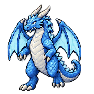
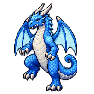
Rework dragon walking poses with raised knees and alternating foot landings

diff --git a/design/enemies/dragon_frost/PROMPT.md b/design/enemies/dragon_frost/PROMPT.md
@@ -1,1 +1,4 @@
-Edit target Image1: exact blue frost dragon sprite, 94x94 logical pixels. Make ONE transparent sprite-sheet asset with exactly SEVEN walking frames in one horizontal row of seven equally spaced cells. Keep original dragon identity, upright TWO-LEGGED stance, two arms, ivory horns, TWO protruding ivory fangs, blue scales, white belly, cyan bat wings, curling tail, same three-quarter view. Crisp pixel art, no redesign. IMPORTANT: the previous attempt only moved ONE leg. This version MUST show BOTH LEGS alternately lifting, swinging and planting. Screen LEFT leg and screen RIGHT leg each have their own visible lifted-foot poses. Define these by image side, NOT anatomical labels. Both feet stay visibly separated and never overlap. Upper body, head, wings and scale MUST stay identical and fixed in position in all 7 cells; animate the two legs below hip joints and very slight arm swing only. Stationary walk in place, NO lateral movement or flipping. Clear positive toe clearance, lifted foot about5 logical pixels above floor, planted supporting foot on consistent baseline. Seven phases, all required: CELL1 screen-left foot forward planted, screen-right foot back with heel starting to lift. CELL2 SCREEN-RIGHT knee bent, SCREEN-RIGHT FOOT LIFTED OFF FLOOR underneath body, screen-left foot still firmly planted. CELL3 SCREEN-RIGHT FOOT SWINGING FORWARD ABOVE FLOOR, screen-left leg straight supporting body. CELL4 SCREEN-RIGHT FOOT FORWARD PLANTED ON FLOOR, screen-left foot back with heel rising. CELL5 SCREEN-LEFT knee bent, SCREEN-LEFT FOOT LIFTED OFF FLOOR underneath body, screen-right foot still firmly planted. CELL6 SCREEN-LEFT FOOT SWINGING FORWARD ABOVE FLOOR, screen-right leg straight supporting body. CELL7 SCREEN-LEFT foot descending toward forward contact, screen-right heel lifting for next cycle. Then seamlessly return to cell1. In particular cell2 and cell3 have RIGHT FOOT lifted, while cell5 and cell6 have LEFT FOOT lifted. Do NOT produce the same leg lifting in both halves of the cycle. Clearly readable different poses, natural hip-knee-ankle bends, no stretch artifacts. All seven dragons same size, same vertical head position, same centerline, fully visible wing tips horns feet tail within own equally sized cell with transparent separation/padding. No duplicated endpoint, no missing frames, no extra dragons. Reference logical sheet658x94, can render enlarged. NO TEXT, NO labels, NO lines, NO backgrounds, NO floor shadow, NO checkerboard, NO visible grid. Genuine alpha transparency. Output one sprite sheet containing seven frames.
+Edit reference: existing BLUE FROST DRAGON sprite. Create ONE pixel-art sprite sheet with exactly SEVEN full-body dragon WALKING frames arranged in ONE HORIZONTAL ROW of seven evenly spaced cells on transparent background. Same character throughout: ivory horns and protruding fangs, blue scales, white belly, cyan back wings, curled tail, upright biped, same 3/4 front view. Intended each final frame94x94. Important correction: prior walk looked like a foot dragging along ground. This must be a clearly readable MARCHING WALK, with BOTH feet alternately lifted HIGH and returned to floor. Strong, natural visible hip/knee bends, NOT a foot merely translated sideways. Swing leg must have foot completely clear of ground by10-12 logical pixels with bent knee, ankle under knee and claws facing down/forward; supporting leg straight with foot firmly planted. Keep foot orientation natural, NEVER a horizontal flattened boot dragged toe-first. Body weight shifts subtly over planted supporting foot; body rises/falls only1 logical pixel. Seven poses: 1 LEFT knee bent raised, LEFT FOOT visibly HIGH under knee, RIGHT foot firmly planted. 2 LEFT foot moving forward and down, RIGHT remains planted. 3 LEFT foot contacts floor FORWARD and weight transfers, RIGHT heel lifts behind. 4 RIGHT knee bent raised, RIGHT FOOT visibly HIGH under knee, LEFT firmly planted. 5 RIGHT foot moving forward and down, LEFT remains planted. 6 RIGHT foot contacts floor FORWARD and weight transfers, LEFT heel lifts behind. 7 LEFT knee bending and LEFT foot lifting toward pose1, RIGHT planted. LEFT/RIGHT refer to VIEWER'S LEFT and VIEWER'S RIGHT. Both legs must be fully visible and separated in all seven poses. Raised foot poses1 and4 must be obviously mirrored leg actions, equally high. At least three frames clearly show each side's foot in different phases. NO foot sliding/skating, NO dragging toe, NO extended straight low swing leg, NO one-leg hopping. This is brisk confident bipedal walking in place, body stationary in sheet, not lunging. Same scale, same face, same fixed wings and tail shape across all seven; frame7 returns smoothly to frame1 without duplicated endpoint. Preserve original style and sprite proportions, crisp square pixel clusters and distinct color ramps. Entire horns, wings, tail, feet inside each cell with generous clear transparent gap separating cells; avoid wings touching other frames. Camera, head position and torso consistent. NO text, numbers, labels, separators, floor, external shadow, extra sprites or background/checkerboard. Actual alpha transparency. One sprite sheet asset, seven full-body poses.
+
+Targeted correction:
+Edit ONLY lower legs in CELLS4,5,6 of this seven-cell dragon sprite sheet. Keep cells1,2,3,7 and all heads, torsos, arms, wings, tails pixel-identical. There is a concrete error: in CELL4 the FAR leg on LEFT of belly is raised, but the NEAR FOREGROUND LEG ON RIGHT OF WHITE BELLY remains straight and planted. REVERSE WHICH LEG IS RAISED for cells4,5,6. The near foreground leg is the larger blue thigh directly BELOW THE RIGHT ARM/CLAW and on the RIGHT SIDE of the white belly. CELL4: lift this large near/right thigh UP and FORWARD toward lower belly; bend its knee strongly, fold its calf, FOOT with3ivory claws must be HIGH about one foot-height above ground, directly under raised knee. Meanwhile far/LEFT leg straight planted on floor as support. CELL5: this same NEAR/RIGHT foot swings forward/down while still clearly airborne, LEFT supports. CELL6: NEAR/RIGHT foot lands forward on floor, LEFT heel starts lift to return tocell7. In cell4 there must be NO FOOT ON FLOOR at the usual near/right-foot location. Only LEFT foot on floor. This is the opposite support fromcell1 (cell1 left foot raised/right planted). Important: raising only the left foot again is WRONG. Inspect left/right placement relative to the WHITE BELLY and TWO ARMS. Make both halves of cycle true alternating high-knee walking, not one-leg hopping. Keep exactly SEVEN equal cells in ONE HORIZONTAL ROW, transparent background, same original blue dragon pixel art, 94x94 logical sprite proportions. No labels, no new characters, no flipping or rotation, no floor or backdrop. Change only leg poses in cells4-6, preserve all else. Real alpha transparency.
